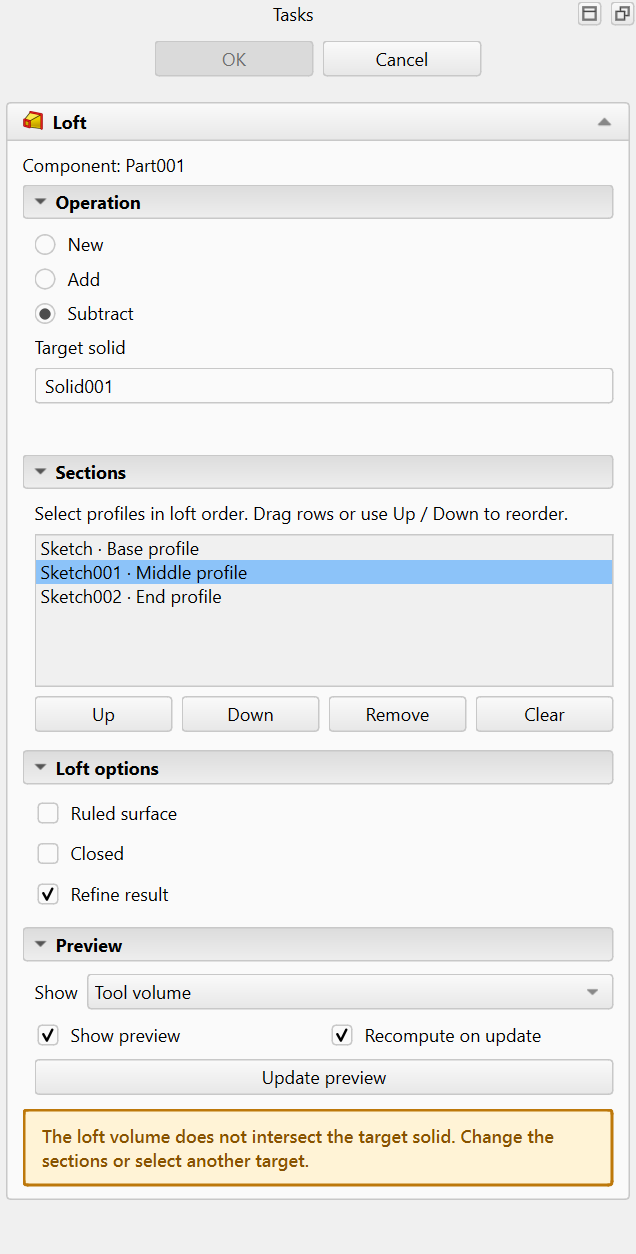
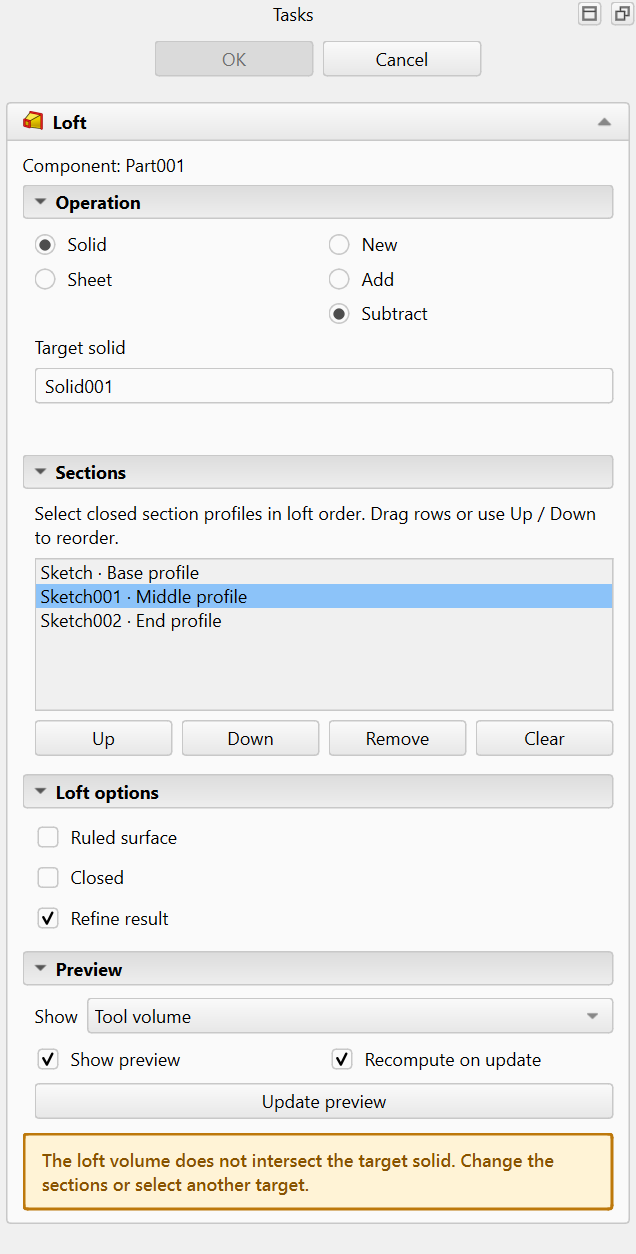
Add Solid and Sheet options to pending Loft preview

diff --git a/ai-instructions/evidence/loft-workflow-preview-20261123/loft_ui.py b/ai-instructions/evidence/loft-workflow-preview-20261123/loft_ui.py
@@ -20,23 +20,31 @@ class LoftTask:
         layout=QtWidgets.QVBoxLayout(self.form);layout.setContentsMargins(6,4,6,4);layout.setSpacing(2)
         layout.addWidget(label('Component: Part001'))
         operation=Section('Operation');layout.addWidget(operation)
+        columns=QtWidgets.QHBoxLayout();outputs=QtWidgets.QVBoxLayout();modes=QtWidgets.QVBoxLayout()
+        self.outputs={};self.output_group=QtWidgets.QButtonGroup(self.form)
+        for name in ('Solid','Sheet'):
+            button=QtWidgets.QRadioButton(name);self.output_group.addButton(button);self.outputs[name]=button
+            outputs.addWidget(button);button.clicked.connect(self.changed)
+        self.outputs['Solid'].setChecked(True);outputs.addStretch()
+        columns.addLayout(outputs,1);columns.addLayout(modes,1);operation.layout.addLayout(columns)
         self.modes={};self.group=QtWidgets.QButtonGroup(self.form)
         for name in ('New','Add','Subtract'):
             button=QtWidgets.QRadioButton(name);self.group.addButton(button);self.modes[name]=button
-            operation.layout.addWidget(button);button.clicked.connect(self.changed)
+            modes.addWidget(button);button.clicked.connect(self.changed)
         self.modes['New'].setChecked(True)
         self.target_row=QtWidgets.QWidget();row=QtWidgets.QVBoxLayout(self.target_row);row.setContentsMargins(0,0,0,0)
         row.addWidget(label('Target solid'));self.target=QtWidgets.QLineEdit();self.target.setReadOnly(True)
         self.target.setPlaceholderText('Select the solid to modify');row.addWidget(self.target)
         self.target_hint=TaskStatus();row.addWidget(self.target_hint);operation.layout.addWidget(self.target_row)
         section=Section('Sections');layout.addWidget(section)
-        section.layout.addWidget(label('Select profiles in loft order. Drag rows or use Up / Down to reorder.'))
+        self.section_hint=label('');section.layout.addWidget(self.section_hint)
         self.sections=SelectionList();self.sections.setDragDropMode(QtWidgets.QAbstractItemView.InternalMove)
         self.sections.addItems(['Sketch · Base profile','Sketch001 · Middle profile','Sketch002 · End profile'])
         section.layout.addWidget(self.sections)
         buttons(section.layout,[('Up',lambda:self.move(-1)),('Down',lambda:self.move(1)),('Remove',self.remove),('Clear',self.sections.clear)])
         self.options=Section('Loft options');layout.addWidget(self.options)
         self.ruled=QtWidgets.QCheckBox('Ruled surface');self.closed=QtWidgets.QCheckBox('Closed')
+        self.closed.setToolTip('Connect the last section back to the first. This does not cap a sheet.')
         self.refine=QtWidgets.QCheckBox('Refine result');self.refine.setChecked(True)
         for control in (self.ruled,self.closed,self.refine):self.options.layout.addWidget(control)
         preview=Section('Preview');layout.addWidget(preview)
@@ -53,12 +61,19 @@ class LoftTask:
             item=self.sections.takeItem(i);self.sections.insertItem(j,item);self.sections.setCurrentRow(j)
     def remove(self):self.sections.takeItem(self.sections.currentRow())
     def changed(self,*args):
+        sheet=self.outputs['Sheet'].isChecked()
+        if sheet:
+            self.modes['New'].setChecked(True);self.target.clear()
+        for button in self.modes.values():button.setEnabled(not sheet)
+        self.section_hint.setText(('Select open or closed section curves in loft order.' if sheet else
+                                  'Select closed section profiles in loft order.')+' Drag rows or use Up / Down to reorder.')
+        self.display.setItemText(0,'Loft preview' if sheet else 'Tool volume')
         mode=next(name for name,button in self.modes.items() if button.isChecked())
         self.target_row.setVisible(mode!='New')
         missing=mode!='New' and not self.target.text()
         self.target.setStyleSheet('QLineEdit {border: 2px solid #bd780b; background: #fff3d6; color: #875300;}' if missing else '')
         self.target_hint.setText('Select the target solid before selecting sections.' if missing else '')
-        self.status.setText('Tool volume · creates a new solid.' if mode=='New' else 'Select a target solid to preview '+mode.lower()+'.' if missing else 'Tool volume · '+mode.lower()+'.')
+        self.status.setText('Sheet preview · uncapped, no thickness.' if sheet else 'Tool volume · creates a new solid.' if mode=='New' else 'Select a target solid to preview '+mode.lower()+'.' if missing else 'Tool volume · '+mode.lower()+'.')
     def getStandardButtons(self):return int(QtWidgets.QDialogButtonBox.Ok|QtWidgets.QDialogButtonBox.Cancel)
     def accept(self):return False
     def reject(self):Gui.Control.closeDialog();return True

diff --git a/ai-instructions/evidence/loft-workflow-preview-20261123/README.md b/ai-instructions/evidence/loft-workflow-preview-20261123/README.md
@@ -1,13 +1,13 @@
 # Unified Loft proposal — November 23, 2026
 
 Owner requests one Loft workflow with New/Add/Subtract and combined Plus task
-entries. Concrete UI approval is pending; production code and installed payload
+entries, subsequently adding Solid/Sheet output. Concrete UI approval is pending; production code and installed payload
 remain unchanged at 7479a0ff04278b9b15903e1fc6c8a00092b83d1a.
 The [task specification](../../ui-ux-specs/TASK_PANEL.md#unified-loft--november-23-2026)
 owns the proposed behavior and implementation scope.
 
 Direct native widget screenshots:
-- [New](loft-new.png), [Add target cue](loft-add-target.png),
+- [Solid / New](loft-new.png), [Sheet / locked New](loft-sheet.png), [Add target cue](loft-add-target.png),
   [Subtract target cue](loft-subtract-target.png),
   [selected target](loft-subtract-selected.png), [error](loft-invalid.png).
 - One Loft entry for [single sketch](modeling-tools-single.png) and
@@ -19,16 +19,21 @@ The baseline native task uses an isolated legacy three-circle Loft fixture;
 the candidate uses the same named section examples in native shared widgets.
 Task-entry screenshots use the same synthetic Plus component and sketches.
 Candidate OK is disabled. Target text and error states are simulated. Section
-Up/Down and clean prototype Cancel were exercised; production picking, geometry,
+Up/Down and clean prototype Cancel were exercised. The amended widget checks
+confirm Solid default, Sheet forcing/locking New and clearing target, return to
+Solid re-enabling operations, and preservation of all section rows. Production picking, geometry,
 boolean validity, drag events, editing, persistence and colors remain unimplemented.
 The idle proposal modifies only process-local task action labels, not commands.
 Both captures succeeded and were visually inspected. No owner profiles/documents
 were used. The unrelated project.previewfirst.json was preserved.
 
-Companion session `f28df6cc461b`; isolated adapter baseline
+Current Companion session `64ec80523dda` supersedes `f28df6cc461b` for Solid/Sheet;
+isolated adapter baseline
 `d8984bd9bd335247105d512b43622f1274ab7345`; exact candidate allowlist `loft_ui.py`.
[2 lines of base64/hex data omitted]
 inspection: fresh preview, no scope violations, approval false/untouched.
 Renderer/harness and both UI versions are retained with screenshots and results.
 Render paths in the archived harness describe its original workspace location.
 Source adapter remains at `../loft-workflow-preview` relative to the checkout.
+Temporary render/profile output was removed after archival; the installed app and
+owner sessions/settings are unchanged.

diff --git a/ai-instructions/ui-ux-specs/TASK_PANEL.md b/ai-instructions/ui-ux-specs/TASK_PANEL.md
@@ -11,6 +11,17 @@ matching Extrude/Revolve, and merging their Plus task entries. The
 [native UI proposal](../evidence/loft-workflow-preview-20261123/README.md) is awaiting
 explicit approval; the following layout/implementation details are proposed.
 
+Owner additionally requested Solid/Sheet output. The revised proposal uses the
+same two-column arrangement as Extrude/Revolve: Solid/Sheet left, New/Add/Subtract
+right. Solid defaults on. Sheet selects and locks New, disables all operation
+buttons, clears/hides the target and accepts compatible open or closed section
+curves/edges/wires to create an uncapped sheet without thickness. Returning to
+Solid keeps New, re-enables operation choices and preserves section selections.
+Solid requires closed section profiles with supported native vertex endpoints.
+Closed connects the final section back to the first; it does not cap a sheet.
+Store output in saved features and restore it on editing; existing supported
+Lofts default Solid. Sheet uses Loft preview in place of Tool volume.
+
 New defaults to a new solid. Add/Subtract require an explicit current target or
 the approved sole-eligible-target shortcut, independent of Classic active Body.
 Choose target before collecting additional sections. Collect section profiles in
@@ -33,7 +44,7 @@ in Plus documents. Plus Loft entry defaults New. Preserve native legacy document
 workflows, existing identities/settings and unrelated ribbon/tab/coordinate visuals.
 Implementation scope: shared Loft engine/task, creation/edit dispatch, native Loft
 command bridges, Plus task watchers/entry command and relevant registration/tests.
-No Pipe/Helix migration or new sheet-output option is included in this proposal.
+No Pipe/Helix migration is included in this proposal.
 Saved native features must retain unsupported settings/native editing where needed.
 
 ### Component-owned operation routing — November 23, 2026

diff --git a/ai-instructions/WORK_STATE.md b/ai-instructions/WORK_STATE.md
@@ -3,8 +3,9 @@
 ## Unified Loft preview pending approval — November 23, 2026
 
 Requested unified Loft/New/Add/Subtract and merged Plus task entries are previewed
-with native shared widgets. [Direct screenshots, source and checks](evidence/loft-workflow-preview-20261123/README.md).
-Session f28df6cc461b is fresh/in-scope; approval state untouched. Production remains
+with native shared widgets, now including the owner's added Solid/Sheet option.
+Sheet forces/locks New as in Extrude/Revolve. [Direct screenshots, source and checks](evidence/loft-workflow-preview-20261123/README.md).
+Session 64ec80523dda supersedes f28df6cc461b and is fresh/in-scope; approval state untouched. Production remains
 7479a0ff04, installed and pushed. Await concrete UI approval before implementation;
 follow [proposed scope](ui-ux-specs/TASK_PANEL.md#unified-loft--november-23-2026).
 

diff --git a/ai-instructions/DEVELOPMENT_ROADMAP.md b/ai-instructions/DEVELOPMENT_ROADMAP.md
@@ -2,9 +2,9 @@
 
 ## Unified Loft — November 23, 2026
 
-- [ X ] Prepare [direct native UI proposal](evidence/loft-workflow-preview-20261123/README.md).
+- [ X ] Prepare [direct native UI proposal](evidence/loft-workflow-preview-20261123/README.md), including Solid/Sheet amendment.
 - [   ] Obtain approval of the concrete workflow/layout.
-- [   ] Implement shared New/Add/Subtract creation/editing and combined Plus task entries.
+- [   ] Implement Solid/Sheet and shared New/Add/Subtract creation/editing, plus combined Plus task entries.
 - [   ] Verify geometry, routing with absent/different native Body, targets/colors,
   history/access, edit identity, Cancel/Undo/reopen and Classic/legacy compatibility;
   install with rollback and verify the existing shortcut.
